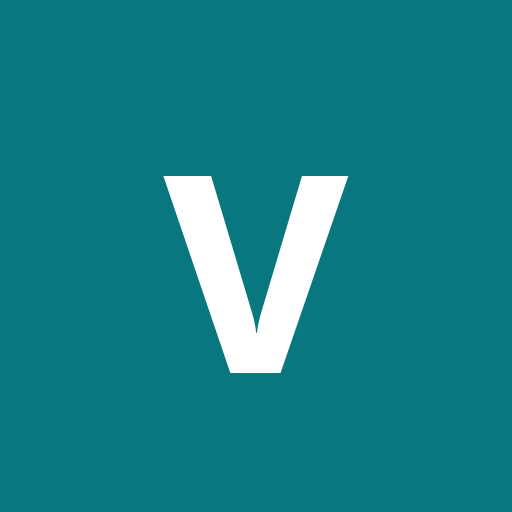
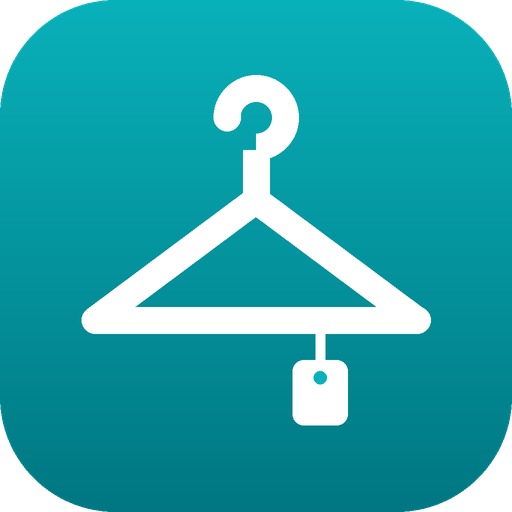
Nouvelle icône (cintre) et couleurs bleu-vert façon Vinted

diff --git a/style.css b/style.css
@@ -1,6 +1,6 @@
 :root {
   --bg: #f6f7f8; --card: #fff; --ink: #1d2327; --muted: #6b7378; --line: #e3e6e8;
-  --accent: #09777f; --accent-ink: #fff; --accent-soft: #e2f2f3;
+  --accent: #007782; --accent-ink: #fff; --accent-soft: #e0f4f5;
   --warn-bg: #fff6dc; --warn-line: #f0d68a; --danger: #c0392b;
   --st-brouillon: #8a6d00; --st-brouillon-bg: #fff3c4;
   --st-prete: #09777f; --st-prete-bg: #dcf1f2;
@@ -11,7 +11,7 @@
 @media (prefers-color-scheme: dark) {
   :root {
     --bg: #121516; --card: #1b1f21; --ink: #e8ecee; --muted: #9aa3a8; --line: #2c3236;
-    --accent: #2bb3bc; --accent-ink: #062224; --accent-soft: #163236;
+    --accent: #09b1ba; --accent-ink: #04282b; --accent-soft: #123538;
     --warn-bg: #2d2817; --warn-line: #5c4f22;
     --st-brouillon: #f0cf5a; --st-brouillon-bg: #3a3214;
     --st-prete: #5fd3da; --st-prete-bg: #173638;
@@ -37,7 +37,7 @@ input:focus, select:focus, textarea:focus { outline: 2px solid var(--accent); ou
 
 .top { display: flex; align-items: center; justify-content: space-between; padding: 14px 16px; max-width: 1100px; margin: 0 auto; }
 .brand { display: flex; gap: 10px; align-items: center; }
-.logo { width: 36px; height: 36px; border-radius: 10px; background: var(--accent); color: var(--accent-ink); display: grid; place-items: center; font-weight: 800; }
+.logo { width: 36px; height: 36px; border-radius: 10px; display: block; }
 .sub { margin: 0; color: var(--muted); font-size: 13px; }
 main { max-width: 1100px; margin: 0 auto; padding: 0 16px 60px; }
 .card { background: var(--card); border: 1px solid var(--line); border-radius: var(--radius); padding: 16px; }

diff --git a/index.html b/index.html
@@ -4,18 +4,19 @@
 <meta charset="utf-8">
 <meta name="viewport" content="width=device-width, initial-scale=1, viewport-fit=cover">
 <title>Vinted Agent</title>
-<meta name="theme-color" content="#09777f">
+<meta name="theme-color" content="#007782">
 <link rel="manifest" href="manifest.webmanifest">
-<link rel="icon" href="icons/icon-192.png">
-<link rel="apple-touch-icon" href="icons/icon-192.png">
+<link rel="icon" href="icons/icon-192.png?v=2">
+<link rel="shortcut icon" href="icons/app.ico?v=2">
+<link rel="apple-touch-icon" href="icons/apple-touch-icon.png?v=2">
 <meta name="apple-mobile-web-app-capable" content="yes">
 <meta name="apple-mobile-web-app-title" content="Vinted Agent">
-<link rel="stylesheet" href="style.css?v=12">
+<link rel="stylesheet" href="style.css?v=13">
 </head>
 <body>
 <header class="top">
   <div class="brand">
-    <span class="logo">V</span>
+    <img class="logo" src="icons/icon-192.png?v=2" alt="" width="36" height="36">
     <div><h1>Vinted Agent</h1><p class="sub" id="who">Tes annonces, préparées pour toi</p></div>
   </div>
   <button class="ghost" id="btn-settings" hidden>Réglages</button>
@@ -200,6 +201,6 @@
 <div class="toast" id="toast"></div>
 <div class="busy" id="busy" hidden><div class="spin"></div><p id="busy-text">L'agent regarde tes photos…</p></div>
 
-<script type="module" src="js/app.js?v=12"></script>
+<script type="module" src="js/app.js?v=13"></script>
 </body>
 </html>

diff --git a/js/agent.js b/js/agent.js
@@ -1,7 +1,7 @@
 // L'agent : Qwen (vision) regarde les photos, GPT-OSS 120B écrit l'annonce. Tout passe par Groq.
-import { SYSTEM, VISION_PROMPT } from "./prompts.js?v=12";
-import { guideFor } from "./legit.js?v=12";
-import { categoriesFor } from "./categories.js?v=12";
+import { SYSTEM, VISION_PROMPT } from "./prompts.js?v=13";
+import { guideFor } from "./legit.js?v=13";
+import { categoriesFor } from "./categories.js?v=13";
 
 const GROQ_URL = "https://api.groq.com/openai/v1/chat/completions";
 export const VISION_MODELS = { "qwen/qwen3.8-27b": "Qwen 3.8 27B (vision)" };

diff --git a/js/app.js b/js/app.js
@@ -1,6 +1,6 @@
-import * as store from "./store.js?v=12";
-import { generate, VISION_MODELS, TEXT_MODELS, MAX_IMAGES, LOCKABLE } from "./agent.js?v=12";
-import { toJpeg, makeSheets } from "./images.js?v=12";
+import * as store from "./store.js?v=13";
+import { generate, VISION_MODELS, TEXT_MODELS, MAX_IMAGES, LOCKABLE } from "./agent.js?v=13";
+import { toJpeg, makeSheets } from "./images.js?v=13";
 
 const $ = (s) => document.querySelector(s);
 const STATUS_LABEL = { brouillon: "À vérifier", prete: "Prête", publiee: "Publiée", vendue: "Vendue" };

diff --git a/js/store.js b/js/store.js
@@ -1,6 +1,6 @@
 // Stockage en ligne (Supabase) : annonces, photos, réglages. Synchronisé sur tous tes appareils.
 import { createClient } from "https://cdn.jsdelivr.net/npm/@supabase/supabase-js@2.45.4/+esm";
-import { SUPABASE_URL, SUPABASE_KEY } from "../config.js?v=12";
+import { SUPABASE_URL, SUPABASE_KEY } from "../config.js?v=13";
 
 export const configured = Boolean(SUPABASE_URL && SUPABASE_KEY);
 export const sb = configured ? createClient(SUPABASE_URL, SUPABASE_KEY, {

diff --git a/sw.js b/sw.js
@@ -1,6 +1,6 @@
 // Service worker minimal : rend l'appli installable sur l'écran d'accueil.
 // Toujours le réseau d'abord (pour avoir la dernière version), le cache si pas de réseau.
-const CACHE = "vinted-agent-v9";
+const CACHE = "vinted-agent-v10";
 self.addEventListener("install", () => self.skipWaiting());
 self.addEventListener("activate", (e) => e.waitUntil(self.clients.claim()));
 self.addEventListener("fetch", (e) => {

diff --git a/tools/make_icons.py b/tools/make_icons.py
@@ -1,0 +1,52 @@
+"""Génère l'icône de l'appli : un cintre blanc sur fond bleu-vert (couleurs proches de Vinted).
+Dessin original, pas le logo Vinted. Usage : python tools/make_icons.py"""
+from pathlib import Path
+from PIL import Image, ImageDraw
+
+TEAL = (9, 177, 186)        # bleu-vert façon Vinted
+TEAL_DARK = (0, 119, 130)
+WHITE = (255, 255, 255)
+S = 1024                    # dessin en grand puis réduit = bords lisses
+
+
+def draw(size_out):
+    img = Image.new("RGBA", (S, S), (0, 0, 0, 0))
+    d = ImageDraw.Draw(img)
+    # fond : carré arrondi avec léger dégradé vertical
+    bg = Image.new("RGBA", (S, S))
+    for y in range(S):
+        t = y / S
+        c = tuple(int(TEAL[i] * (1 - t) + TEAL_DARK[i] * t) for i in range(3)) + (255,)
+        ImageDraw.Draw(bg).line([(0, y), (S, y)], fill=c)
+    mask = Image.new("L", (S, S), 0)
+    ImageDraw.Draw(mask).rounded_rectangle([0, 0, S - 1, S - 1], radius=230, fill=255)
+    img.paste(bg, (0, 0), mask)
+
+    w = 54  # épaisseur du trait
+    # crochet du cintre
+    # crochet : part de la gauche, passe par le haut et la droite, redescend au centre
+    d.arc([427, 150, 597, 320], start=180, end=90, fill=WHITE, width=w)
+    d.ellipse([427 - 0, 235 - w // 2, 427 + w, 235 + w // 2], fill=WHITE)  # bout arrondi
+    d.line([(512, 300), (512, 400)], fill=WHITE, width=w)
+    # épaules du cintre
+    d.line([(512, 400), (190, 640)], fill=WHITE, width=w, joint="curve")
+    d.line([(512, 400), (834, 640)], fill=WHITE, width=w, joint="curve")
+    # barre du bas
+    d.line([(190, 640), (834, 640)], fill=WHITE, width=w)
+    for x in (190, 834):
+        d.ellipse([x - w // 2, 640 - w // 2, x + w // 2, 640 + w // 2], fill=WHITE)
+    d.ellipse([512 - w // 2, 400 - w // 2, 512 + w // 2, 400 + w // 2], fill=WHITE)
+    # petite étiquette de prix accrochée
+    d.line([(640, 640), (640, 730)], fill=WHITE, width=20)
+    d.rounded_rectangle([585, 720, 695, 850], radius=22, fill=WHITE)
+    d.ellipse([627, 742, 653, 768], fill=TEAL)
+    return img.resize((size_out, size_out), Image.LANCZOS)
+
+
+out = Path(__file__).resolve().parent.parent / "icons"
+out.mkdir(exist_ok=True)
+for n in (192, 512):
+    draw(n).save(out / f"icon-{n}.png")
+draw(180).save(out / "apple-touch-icon.png")
+draw(256).save(out / "app.ico", sizes=[(16, 16), (32, 32), (48, 48), (64, 64), (128, 128), (256, 256)])
+print("icônes générées dans", out)
